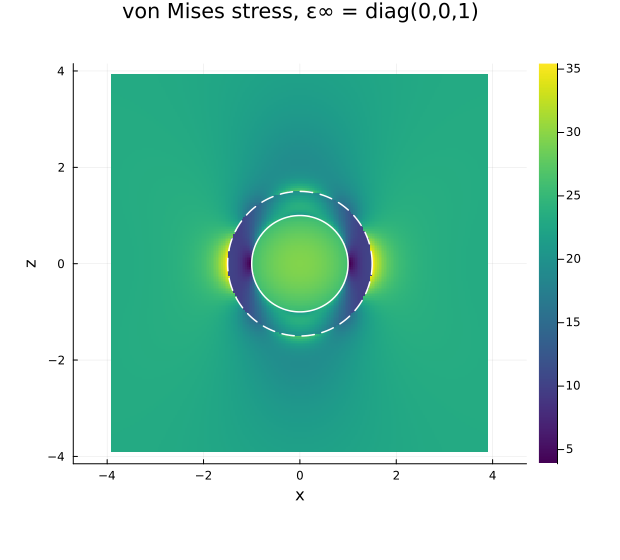
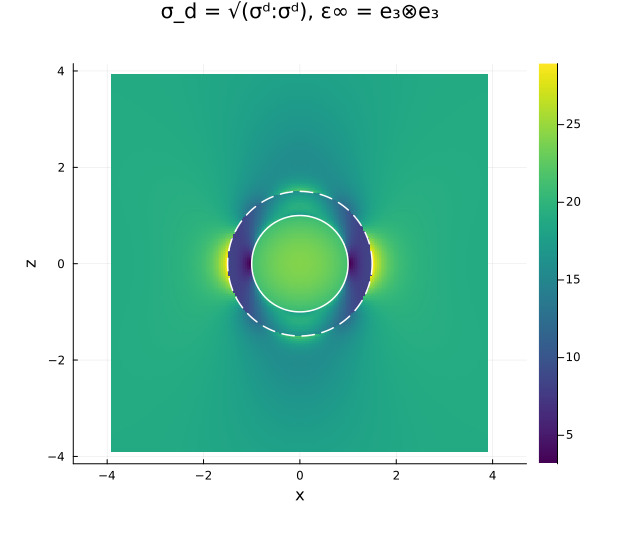
Enhance documentation and code consistency regarding stress deviators and normalization
- Updated granular_friction.md and sandstone_strength.md to clarify normalization conventions for stress deviators, ensuring consistency with referenced articles.
- Revised strength.md to reflect the correct normalization of the ultimate strength and its implications on sensitivity calculations.
- Corrected references in sensitivities.md and updated script links in quasibrittle_strength.jl to align with recent changes.
- Adjusted variable names in layered_sphere_local_fields.md and secant_elastoplasticity.md for clarity and consistency with the new definitions of deviatoric stress.
- Updated strength_criteria.md to reflect the correct formulation of the elliptical macroscopic strength domain.
- Modified test_self_consistent_nls.jl to reference the correct documentation paths for strength criteria and nonlinear solvers.
- Updated figures and scripts to ensure they reflect the latest changes in terminology and definitions.

diff --git a/docs/src/applications/strength.md b/docs/src/applications/strength.md
@@ -156,16 +156,34 @@ nothing # hide
 
 ## Strength criterion and the autodiff sensitivity
 
-The compliance pull-back ``\boldsymbol{M} = \boldsymbol{S}_{\mathrm{MO}}:\partial\mathbb
-C_{\mathrm{MO}}/\partial\mu_{\mathrm{hyd}}:\boldsymbol{S}_{\mathrm{MO}}`` gives the axial term ``M_{3333}``,
-and the criterion of [pichler2011](@citet) reads
+The criterion of [pichler2011](@citet) bounds, in every family of hydrate needles,
+the quadratic average of the deviatoric stress,
+``\bar\sigma^{\mathrm{dev}}_{\mathrm{hyd}} = \sqrt{\langle\tfrac{1}{2}\,\boldsymbol{s}:\boldsymbol{s}\rangle} \le \sigma^{\mathrm{ult}}_{\mathrm{hyd}}``,
+``\boldsymbol{s}`` being the stress deviator (their eqs. 15 and 19). The derivative of
+the energy of the mortar gives that average,
+``(\bar\sigma^{\mathrm{dev}}_{\mathrm{hyd}})^2 = (\mu_{\mathrm{hyd}}^2/f_\theta)\,\boldsymbol{E}:\partial\mathbb C_{\mathrm{MO}}/\partial\mu_{\mathrm{hyd}}:\boldsymbol{E}``
+(their eq. 22), where ``f_\theta`` is the mortar volume fraction of the perturbed
+(``\theta=0``) hydrate family. Under a uniaxial compression
+``\boldsymbol{\Sigma} = f_c\,\underline{e}_3\otimes\underline{e}_3``, the strain is
+``\boldsymbol{E} = \boldsymbol{S}_{\mathrm{MO}}:\boldsymbol{\Sigma}``, and with the compliance pull-back
+``\boldsymbol{M} = \boldsymbol{S}_{\mathrm{MO}}:\partial\mathbb C_{\mathrm{MO}}/\partial\mu_{\mathrm{hyd}}:\boldsymbol{S}_{\mathrm{MO}}``
+the strength is
 
 ```math
-\frac{f_c}{\sigma^{\mathrm{ult}}_{\mathrm{hyd}}} = \frac{1}{\sqrt{\,M_{3333}\,2\mu_{\mathrm{hyd}}^2 / f_\theta\,}},
+\frac{f_c}{\sigma^{\mathrm{ult}}_{\mathrm{hyd}}} = \frac{1}{\sqrt{\,M_{3333}\,\mu_{\mathrm{hyd}}^2 / f_\theta\,}}.
 ```
 
-where ``f_\theta`` is the mortar volume fraction of the perturbed (``\theta=0``)
-hydrate family. The sensitivity ``\partial\mathbb C_{\mathrm{MO}}/\partial\mu_{\mathrm{hyd}}``
+The code below differentiates with respect to the stiffness parameter
+``2\mu_{\mathrm{hyd}}`` instead, which halves ``\boldsymbol{M}`` and doubles the factor
+``\mu_{\mathrm{hyd}}^2``: the same number.
+
+!!! note "The normalization of this page"
+    This page keeps the normalization of [pichler2011](@citet), with
+    ``\tfrac{1}{2}`` under the root, so that ``\sigma^{\mathrm{ult}}_{\mathrm{hyd}}`` is the
+    strength of the article. The norm used in the rest of this documentation
+    carries no factor (see [Conventions](@ref th-notation-deviatoric)): in it the
+    bound is ``\sqrt 2\,\sigma^{\mathrm{ult}}_{\mathrm{hyd}}``, and every ratio
+    ``f_c/\sigma^{\mathrm{ult}}_{\mathrm{hyd}}`` of this page is divided by ``\sqrt 2``. The sensitivity ``\partial\mathbb C_{\mathrm{MO}}/\partial\mu_{\mathrm{hyd}}``
 is obtained by seeding ``\mu_{b0}`` with a `Dual` and reading the partial of the
 final array — one pass through the whole three-scale chain.
 
@@ -344,8 +362,9 @@ psc
 ```
 
 The absolute strength in MPa is recovered by multiplying by
-``\sigma^{\mathrm{ult}}_{\mathrm{hyd}}``, which [pichler2011](@citet) calibrate to ≈ 70–90 MPa
-for typical C-S-H.
+``\sigma^{\mathrm{ult}}_{\mathrm{hyd}}``, which [pichler2011](@citet) identify as about 50 MPa
+from the compressive strength of 54.1 MPa of a fully hydrated paste of
+water-to-cement ratio 0.50 (their eq. 31).
 
 ## The same chain, written declaratively
 

diff --git a/docs/src/theory/notation.md b/docs/src/theory/notation.md
@@ -3,8 +3,8 @@
 This page fixes the conventions that the formulas of the documentation take for
 granted: the sign under which elasticity and conduction share one set of
 formulas, the sign of the Green operator, the bases in which isotropic and
-transversely isotropic tensors are written, the geometry of an ellipsoid and the
-storage of tensors. The typeface of each kind of object, the operators and the
+transversely isotropic tensors are written, the norm of a deviator, the geometry
+of an ellipsoid and the storage of tensors. The typeface of each kind of object, the operators and the
 list of the symbols are in the [Nomenclature](@ref nomenclature).
 
 ## [Elasticity and transport: one set of formulas](@id th-notation-sigma-q)
@@ -103,6 +103,36 @@ sharing a single coefficient — hence five independent numbers written
 This is the storage used by `TensND.TensTI{4}` and by
 [`hill_tensor`](@ref) on a transversely isotropic matrix
 [walpole1981, barthelemyIJES2020_hilltrans](@cite).
+
+## [Mean and deviatoric parts, and the deviatoric norm](@id th-notation-deviatoric)
+
+A stress splits into a mean part and a deviator, and the deviator is measured by
+its norm:
+
+```math
+\sigma_m = \tfrac{1}{3}\,\mathrm{tr}\,\boldsymbol{\sigma},
+\qquad
+\boldsymbol{\sigma}^d = \boldsymbol{\sigma} - \sigma_m\,\boldsymbol{1} = \mathbb{K}:\boldsymbol{\sigma},
+\qquad
+\sigma_d = \sqrt{\boldsymbol{\sigma}^d:\boldsymbol{\sigma}^d}.
+```
+
+The same holds for a macroscopic stress, with ``\Sigma_m``, ``\boldsymbol{\Sigma}^d``
+and ``\Sigma_d``, and for a strain, with
+``\varepsilon_d = \sqrt{\boldsymbol{\varepsilon}^d:\boldsymbol{\varepsilon}^d}``. The norm
+carries no factor, as in [barthelemyThesis2005](@cite). Other references put
+``\tfrac{1}{2}`` under the root, which makes ``\sigma_d`` the square root of the
+second invariant ``J_2``, or ``\tfrac{3}{2}``, which makes it the von Mises
+equivalent stress. With the norm above, an isotropic solid gives
+``\sigma_d = 2\mu\,\varepsilon_d``, and a uniaxial stress
+``\sigma\,\underline{e}_1\otimes\underline{e}_1`` gives ``\sigma_d = \sqrt{2/3}\,|\sigma|``:
+a von Mises solid of tensile strength ``\sigma_t`` obeys
+``\sigma_d \le \sqrt{2/3}\,\sigma_t``.
+
+A page that reproduces the analytical results of an article keeps the
+normalization of that article, so that its formulas and figures can be compared
+with it. Such a page says so where it defines ``\sigma_d``, and gives the
+conversion to the norm above.
 
 ## [Ellipsoid geometry](@id th-notation-ellipsoid)
 

diff --git a/docs/src/tutorials/strength_criteria.md b/docs/src/tutorials/strength_criteria.md
@@ -38,21 +38,35 @@ nothing # hide
 
 ## The criterion
 
-Under a macroscopic stress split into a mean part ``\Sigma_m`` and a
-deviatoric magnitude ``\Sigma_d``, a porous solid governed by a von
-Mises-type local strength ``\sigma_o`` in the solid phase admits, to
-second order in the contrast, an **elliptical macroscopic strength
+The solid obeys a von Mises criterion written on the norm of its stress
+deviator, ``\sigma_d = \sqrt{\boldsymbol{\sigma}^d:\boldsymbol{\sigma}^d} \le \sigma_o``,
+with no factor under the root (see [Conventions](@ref th-notation-deviatoric)):
+``\sigma_o`` is ``\sqrt{2/3}`` times the tensile strength of the solid. A
+macroscopic stress is split in the same way into its mean part
+``\Sigma_m = \tfrac{1}{3}\,\mathrm{tr}\,\boldsymbol{\Sigma}`` and the norm of its deviator
+``\Sigma_d = \sqrt{\boldsymbol{\Sigma}^d:\boldsymbol{\Sigma}^d}``. The quadratic average of
+``\sigma_d`` over the solid follows from the sensitivity of the homogenized
+moduli to the shear modulus of the solid [kreher1990, suquet1997](@cite),
+``(1-\varphi)\,\langle\boldsymbol{\sigma}^d:\boldsymbol{\sigma}^d\rangle_s = 2A\,\Sigma_m^2 + B\,\Sigma_d^2``,
+and bounding it by ``\sigma_o^2`` gives an **elliptical macroscopic strength
 domain**:
 
 ```math
 \begin{gathered}
-\frac{(\Sigma_m/\sigma_o)^2}{2A} + \frac{(\Sigma_d/\sigma_o)^2}{B} = \frac{1}{1-\varphi},
+2A\,\Big(\frac{\Sigma_m}{\sigma_o}\Big)^{\!2} + B\,\Big(\frac{\Sigma_d}{\sigma_o}\Big)^{\!2} = 1-\varphi,
 \\
 A = \Big(\frac{\mu_s}{k^{\mathrm{hom}}}\Big)^{\!2}\frac{\partial k^{\mathrm{hom}}}{\partial\mu_s},
 \qquad
 B = \Big(\frac{\mu_s}{\mu^{\mathrm{hom}}}\Big)^{\!2}\frac{\partial \mu^{\mathrm{hom}}}{\partial\mu_s}.
 \end{gathered}
 ```
+
+For spherical pores in an incompressible solid, Mori–Tanaka gives
+``A = 3\varphi/(4(1-\varphi))`` and ``B = (1+2\varphi/3)/(1-\varphi)``, and the ellipse
+becomes
+``\tfrac{3}{2}\varphi\,\Sigma_m^2 + (1+\tfrac{2}{3}\varphi)\,\Sigma_d^2 = (1-\varphi)^2\sigma_o^2``,
+eq. (5.33) of [barthelemyThesis2005](@cite), where the bound ``\sigma_o`` on ``\sigma_d``
+is written ``b``.
 
 ``A`` and ``B`` are **not** independent material data — they are the
 sensitivities of the two homogenized moduli to the *solid's own* shear

diff --git a/docs/src/applications/sandstone_strength.md b/docs/src/applications/sandstone_strength.md
@@ -16,6 +16,17 @@ question is the macroscopic strength, in the plane of the mean stress
 ``\Sigma_m = \mathrm{tr}\,\boldsymbol\Sigma/3`` and of the deviatoric stress
 ``\Sigma_d = \sqrt{\boldsymbol\Sigma^{\mathrm d}:\boldsymbol\Sigma^{\mathrm d}/2}``.
 
+!!! note "The normalization of this page"
+    This page keeps the normalization of [dormieux2010](@citet), with
+    ``\tfrac{1}{2}`` under the root, also for the deviatoric strain
+    ``\bar\varepsilon_d`` below, so that its formulas and figures are those of the
+    article. The norm used in the rest of this documentation carries no factor
+    (see [Conventions](@ref th-notation-deviatoric)): it is ``\sqrt 2`` times the
+    ``\sigma_d``, ``\Sigma_d`` and ``\bar\varepsilon_d`` of this page. In that norm the
+    grains obey ``\sqrt{\boldsymbol\sigma^{\mathrm d}:\boldsymbol\sigma^{\mathrm d}} \le \sqrt 2\,K``,
+    and every ratio ``\Sigma_d/|\Sigma_m|`` of this page, ``H`` and the slope of
+    the Drucker–Prager limit, is multiplied by ``\sqrt 2``.
+
 The model follows the modified secant method: each nonlinear behavior is
 replaced by a linear one whose stiffness depends on the average strain it
 undergoes, and the strength is reached when these stiffnesses vanish. The

diff --git a/docs/src/applications/granular_friction.md b/docs/src/applications/granular_friction.md
@@ -24,6 +24,17 @@ assembly is expected to follow a Drucker–Prager criterion
 ``\Sigma_d = \sqrt{\boldsymbol\Sigma^{\mathrm d}:\boldsymbol\Sigma^{\mathrm d}/2}``. The macroscopic friction
 coefficient ``T`` is what this page computes.
 
+!!! note "The normalization of this page"
+    This page keeps the normalization of [maalej2009](@citet), with
+    ``\tfrac{1}{2}`` under the root, so that the friction coefficient ``T`` and its
+    expressions are those of the article. The norm used in the rest of this
+    documentation carries no factor (see [Conventions](@ref th-notation-deviatoric)):
+    it makes ``\Sigma_d`` larger by ``\sqrt 2``, and the friction coefficient
+    ``t = \sqrt 2\,T``. The conversion of a friction angle used below,
+    ``T = 2\sqrt 3\sin\phi_f/(3 - \sin\phi_f)``, then reads
+    ``t = 2\sqrt 6\sin\phi_f/(3 - \sin\phi_f)``. The contact friction ``\alpha``, a
+    ratio of tractions, does not depend on it.
+
 ## 1. A rigid grain bonded by springs
 
 ```@example granular

diff --git a/docs/src/manual/sensitivities.md b/docs/src/manual/sensitivities.md
@@ -145,7 +145,7 @@ the parametric inner constructor of `MyBlob{T,B}` resolves cleanly.
 
 Composing several `homogenize` calls in one closure applies the chain rule
 automatically.
-[`scripts/28_multiscale_strength.jl`](https://github.com/MicroPoroChemoMechanics/MeanFieldHomogenization.jl/blob/main/scripts/28_multiscale_strength.jl)
+[`scripts/41_multiscale_strength.jl`](https://github.com/MicroPoroChemoMechanics/MeanFieldHomogenization.jl/blob/main/scripts/41_multiscale_strength.jl)
 follows the quasi-brittle strength model of [pichler2011](@citet) — a three-scale cement-paste / mortar
 upscaling (SC hydrate foam + two Mori-Tanaka stages) requiring
 `∂C_mortar / ∂μ_hyd` through the full chain — in two styles:
